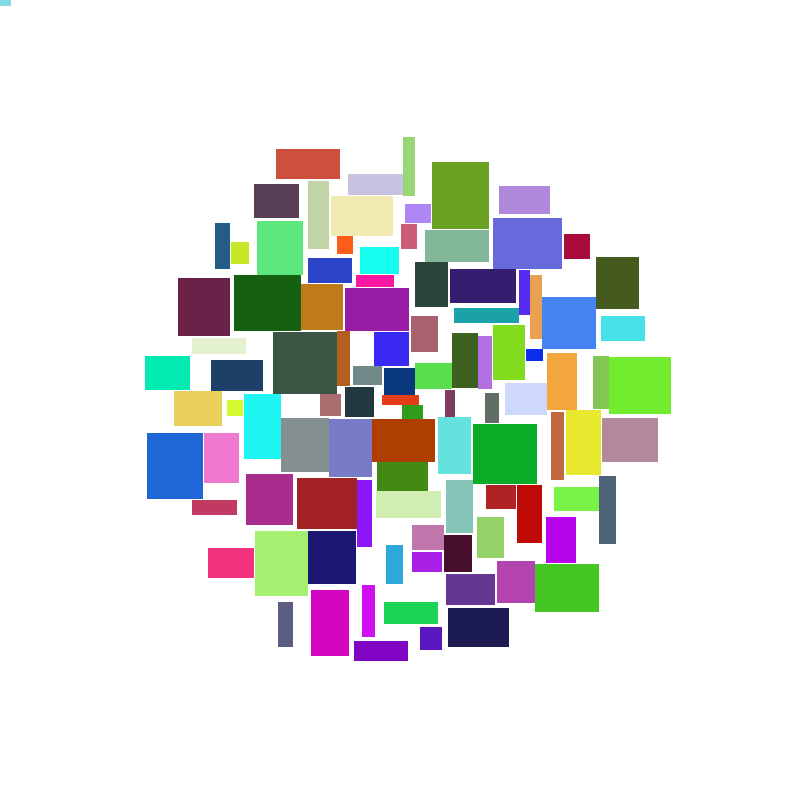
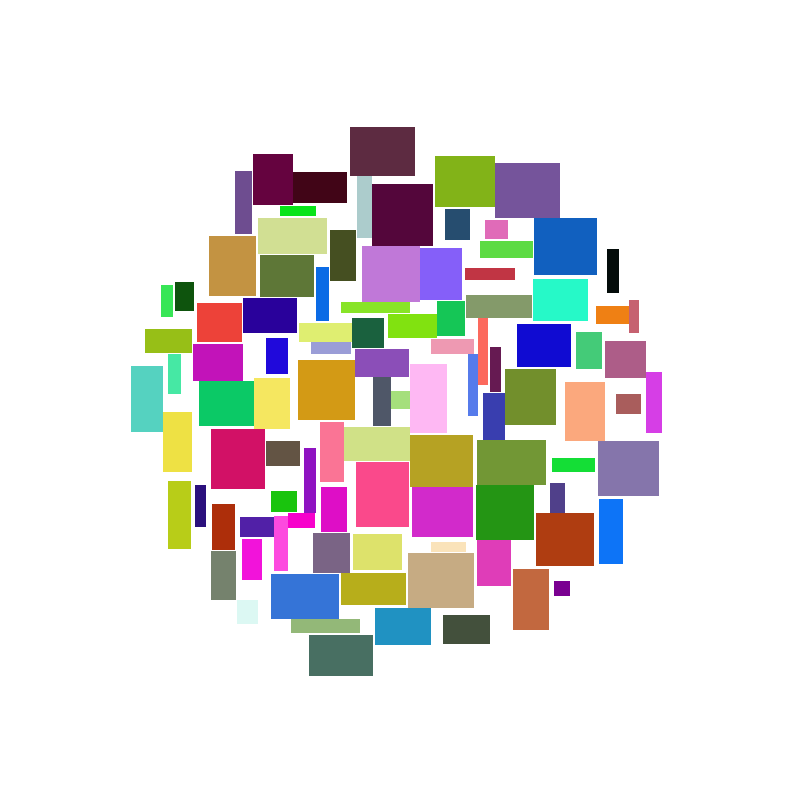
Add tests for SpiralPositionGenerator

diff --git a/cs/TagsCloudVisualizationTests/SpiralPositionGeneratorTests.cs b/cs/TagsCloudVisualizationTests/SpiralPositionGeneratorTests.cs
@@ -1,0 +1,47 @@
+using FluentAssertions;
+using System.Drawing;
+using TagsCloudVisualization;
+
+namespace TagsCloudVisualizationTests;
+
+[TestFixture]
+public class SpiralPositionGeneratorTests
+{
+    [TestCase(0, TestName = "Zero step")]
+    [TestCase(-1, TestName = "Negative step")]
+    public void GeneratorConstructor_ThrowArgumentException_WithUncorrectStep(double step)
+    {
+        Action action = () => new SpiralPositionGenerator(new(0, 0), step);
+        action.Should().Throw<ArgumentException>();
+    }
+
+    [TestCase(0, 0, TestName = "Zero center")]
+    [TestCase(1, 1, TestName = "Not zero center")]
+    public void Generator_ReturnFirstPoint_LikeCenter(int centerX, int centerY)
+    {
+        var center = new Point(centerX, centerY);
+        var generator = new SpiralPositionGenerator(center);
+        var firstPoint = generator.GetPositions().First();
+
+        firstPoint.Should().Be(center);
+    }
+
+    [Test]
+    public void Generator_ReturnPoints_MovingAwayFromCenter()
+    {
+        var center = new Point(0, 0);
+        var points = new SpiralPositionGenerator(center, 1)
+            .GetPositions().Take(1000).Where((_, id) => id % 10 == 0);
+        var prevDistance = double.MinValue;
+
+        foreach (var point in points)
+        {
+            var distance = GetDistanceBetweenPoints(center, point);
+            distance.Should().BeGreaterThan(prevDistance);
+            prevDistance = distance;
+        }
+    }
+
+    private double GetDistanceBetweenPoints(Point point1, Point point2)
+    => Math.Sqrt(Math.Pow(point1.X - point2.X, 2) + Math.Pow(point1.Y - point2.Y, 2));
+}

diff --git a/cs/TagsCloudVisualization/CloudLayouter/CircularCloudLayouter.cs b/cs/TagsCloudVisualization/CloudLayouter/CircularCloudLayouter.cs
@@ -16,7 +16,9 @@ public class CircularCloudLayouter : ICloudLayouter
     public Rectangle PutNextRectangle(Size rectangleSize)
     {
         if (rectangleSize.Width <= 0 || rectangleSize.Height <= 0)
-            throw new ArgumentException($"{nameof(rectangleSize)} должен иметь высоту и ширину больше нуля");
+            throw new ArgumentException(
+                $"{nameof(rectangleSize)} должен иметь высоту и ширину больше нуля, передано ({rectangleSize.Width} {rectangleSize.Height})"
+            );
 
         Rectangle rectangle;
 
@@ -30,8 +32,8 @@ public class CircularCloudLayouter : ICloudLayouter
 
     private Rectangle PutRectangleInNextPosition(Size rectagleSize)
     {
-        var centerOfRectangle = pointEnumerator.Current;
         pointEnumerator.MoveNext();
+        var centerOfRectangle = pointEnumerator.Current;
         var rectanglePosition = GetPositionFromCenter(centerOfRectangle, rectagleSize);
         return new(rectanglePosition, rectagleSize);
     }

diff --git a/cs/TagsCloudVisualizationTests/CircularCloudLayouterTests.cs b/cs/TagsCloudVisualizationTests/CircularCloudLayouterTests.cs
@@ -41,16 +41,17 @@ public class CircularCloudLayouterTests
         action.Should().Throw<ArgumentException>();
     }
 
-    [Test]
-    public void LayouterPutFirstRectangleInCenter()
+    [TestCase(0, 0, TestName = "Zero center")]
+    [TestCase(1, 1, TestName = "Non-zero center")]
+    public void LayouterPutFirstRectangleInCenter(int x, int y)
     {
-        var layouter = new CircularCloudLayouter(new(0, 0));
+        var layouter = new CircularCloudLayouter(new(x, y));
         var rectangleSize = new Size(10, 10);
 
         var actualRectangle = layouter.PutNextRectangle(rectangleSize);
         var expectedRectangle = new Rectangle(
-            -rectangleSize.Width / 2,
-            -rectangleSize.Height / 2,
+            -rectangleSize.Width / 2 + x,
+            -rectangleSize.Height / 2 + y,
             rectangleSize.Width,
             rectangleSize.Height
         );

diff --git a/cs/TagsCloudVisualization/PositionGenerator/SpiralPositionGenerator.cs b/cs/TagsCloudVisualization/PositionGenerator/SpiralPositionGenerator.cs
@@ -4,12 +4,14 @@ namespace TagsCloudVisualization;
 
 public class SpiralPositionGenerator : IPositionGenerator
 {
-    private const double ANGLE_OFFSET = 0.1;
+    private const double ANGLE_OFFSET = 0.5;
     private readonly Point center;
     private readonly double step;
 
     public SpiralPositionGenerator(Point center, double step = 0.1)
     {
+        if (step <= 0)
+            throw new ArgumentException($"{nameof(step)} должен быть больше нуля, передано {step}");
         this.step = step;
         this.center = center;
     }
